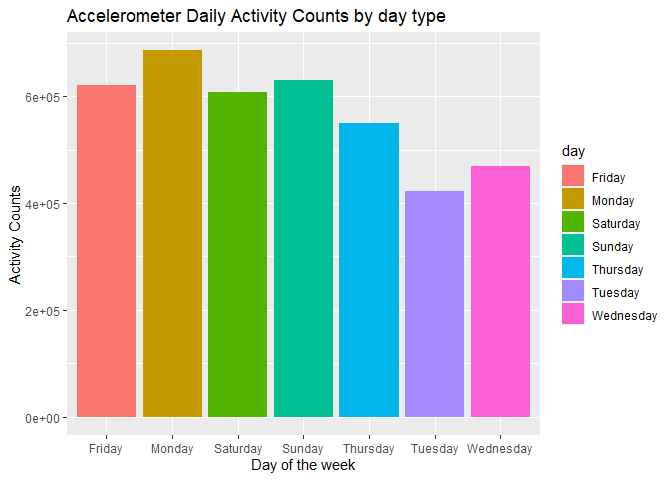
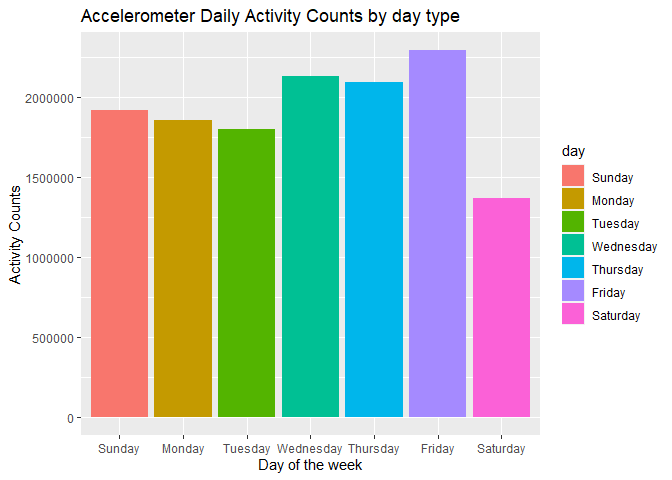
Some improvement of Problem 2

diff --git a/p8105_hw3_zs2539.md b/p8105_hw3_zs2539.md
@@ -271,12 +271,19 @@ accel_day %>%
 ``` r
 accel_day %>%
   group_by(day) %>%
-  ggplot(aes(x = day, y = day_counts, fill = day)) + geom_bar(stat = "identity", position = "dodge") + labs(
+    summarize(
+        week_day_counts = sum(day_counts),
+        day = factor(day, levels = c("Sunday", "Monday", "Tuesday", "Wednesday", "Thursday", "Friday", "Saturday"))
+        ) %>% 
+  ggplot(aes(x = day, y = week_day_counts, fill = day)) + geom_bar(stat = "identity", position = "dodge") + labs(
     title = "Accelerometer Daily Activity Counts by day type",
     x = "Day of the week",
     y = "Activity Counts"
   )
 ```
+
+    ## `summarise()` has grouped output by 'day'. You can override using the `.groups`
+    ## argument.
 
 ![](p8105_hw3_zs2539_files/figure-gfm/unnamed-chunk-9-1.png)<!-- -->
 
